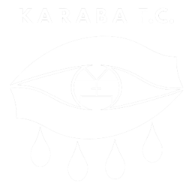
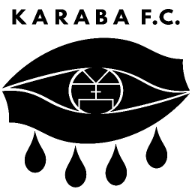
latest version online

diff --git a/public/index.html b/public/index.html
@@ -1,25 +1,1 @@
-<!DOCTYPE html>
-<html lang="en">
-  <head>
-    <meta charset="utf-8" />
-    <link rel="icon" href="%PUBLIC_URL%/favicon.ico" />
-    <link rel="apple-touch-icon" sizes="180x180" href="/apple-touch-icon.png">
-    <link rel="icon" type="image/png" sizes="32x32" href="/favicon-32x32.png">
-    <link rel="icon" type="image/png" sizes="16x16" href="/favicon-16x16.png">
-    <link rel="manifest" href="/site.webmanifest">
-    <meta name="viewport" content="width=device-width, initial-scale=1" />
-    <meta name="theme-color" content="#000000" />
-    <meta
-      name="description"
-      content="Karaba-F.C - Concerts à venir - EP Empty Rooms disponible"
-    />
-    <link rel="preconnect" href="https://fonts.bunny.net">
-    <link href="https://fonts.bunny.net/css?family=league-spartan:200,400,600,700,800" rel="stylesheet" />
-    <title>KARABA F.C.</title>
-  </head>
-  <body>
-    <noscript>You need to enable JavaScript to run this app.</noscript>
-    <div id="root"></div>
-
-  </body>
-</html>
+<!doctype html><html lang="en"><head><meta charset="utf-8"/><link rel="icon" href="/favicon.ico"/><link rel="apple-touch-icon" sizes="180x180" href="/apple-touch-icon.png"><link rel="icon" type="image/png" sizes="32x32" href="/favicon-32x32.png"><link rel="icon" type="image/png" sizes="16x16" href="/favicon-16x16.png"><link rel="manifest" href="/site.webmanifest"><meta name="viewport" content="width=device-width,initial-scale=1"/><meta name="theme-color" content="#000000"/><meta name="description" content="Karaba-F.C - Concerts à venir - EP Empty Rooms disponible"/><link rel="preconnect" href="https://fonts.bunny.net"><link href="https://fonts.bunny.net/css?family=league-spartan:200,400,600,700,800" rel="stylesheet"/><title>KARABA F.C.</title><script defer="defer" src="/static/js/main.eeff8757.js"></script><link href="/static/css/main.073c9b0a.css" rel="stylesheet"></head><body><noscript>You need to enable JavaScript to run this app.</noscript><div id="root"></div></body></html>

diff --git a/src/components/Merchandise.js b/src/components/Merchandise.js
@@ -67,10 +67,11 @@ const MerchandiseContainer = styled(motion.div)`
     @media ${device.mobileXL} {
       flex-direction: column;
       align-items: center;
+      width: 80%
     }
 
     .merchandise-img {
-      width: calc(40% - 20px);
+      //width: calc(40% - 20px);
       min-width: 175px;
 
       img {
@@ -81,24 +82,35 @@ const MerchandiseContainer = styled(motion.div)`
           max-width: 300px;
         }
       }
-      @media ${device.tabletL} {
+      /* @media ${device.tabletL} {
         width: calc(40% - 20px);
-      }
+      } */
       @media ${device.mobileXL} {
         width: 100%;
       }
+
+      /* @media ${device.laptopXL} {
+        width: 50%;
+        text-align: center;
+      } */
     }
     .merchandise-description {
-      width: calc(60% - 20px);
+      //width: calc(60% - 20px);
+      width: 100%;
 
+      @media ${device.laptopXL} {
+        //width: 100%;
+      }
       @media ${device.mobileXL} {
         width: 100%;
       }
       h2 {
         margin-top: 0;
-        margin-bottom: 1rem;
+        margin-bottom: 1.5rem;
         text-transform: uppercase;
         font-weight: 400;
+        text-align: center;
+      
       }
 
       h2,

diff --git a/src/components/Contact.js b/src/components/Contact.js
@@ -17,7 +17,7 @@ const ContactContainer = styled(motion.div)`
     margin-bottom: 3rem;
 
     div {
-      width: 70%;
+      width: 80%;
       display: flex;
       flex-direction: column;
       
@@ -86,7 +86,7 @@ const Contact = () => {
       <div className='contact-content'>
       
         <div>
-        <img src={KarabaFCGig}></img>
+        <img src={KarabaFCGig} alt="Karaba F.C band"></img>
         <span>© Gérald Chabaud</span>
         </div>
         <a href="mailto:feticheprodfrance@gmail.com">feticheprodfrance@gmail.com</a>

diff --git a/src/components/Nav.js b/src/components/Nav.js
@@ -5,7 +5,7 @@ import * as Scroll from 'react-scroll';
 import { device } from '../global/Breakpoints'
 
 import waterDropSvg from '../assets/icons/water-drop.svg'
-import karabalogo from '../assets/icons/KarabaFC-logo-white.png';
+import karabalogo from '../assets/icons/KarabaFC-logo-white-light.png';
 
 const NavBarContainer = styled.nav`
   height: 600px;

diff --git a/src/components/Header.js b/src/components/Header.js
@@ -4,7 +4,7 @@ import * as Scroll from "react-scroll";
 
 /* Images */
 
-import karabalogo from "../assets/icons/KarabaFC-logo-white.png";
+import karabalogo from "../assets/icons/KarabaFC-logo-white-light.png";
 import headerBg from "../assets/images/alex-lerum.jpg";
 import arrowDown from "../assets/icons/down-arrow.svg";
 

diff --git a/src/components/Footer.js b/src/components/Footer.js
@@ -97,7 +97,7 @@ export default function Footer() {
       </Icons>
 
       <Mentions>
-          2022 • <NavLink to="/mentions">Mentions</NavLink>
+          2023 • <NavLink to="/mentions">Mentions</NavLink>
       </Mentions>
 
     </FooterContainer>
